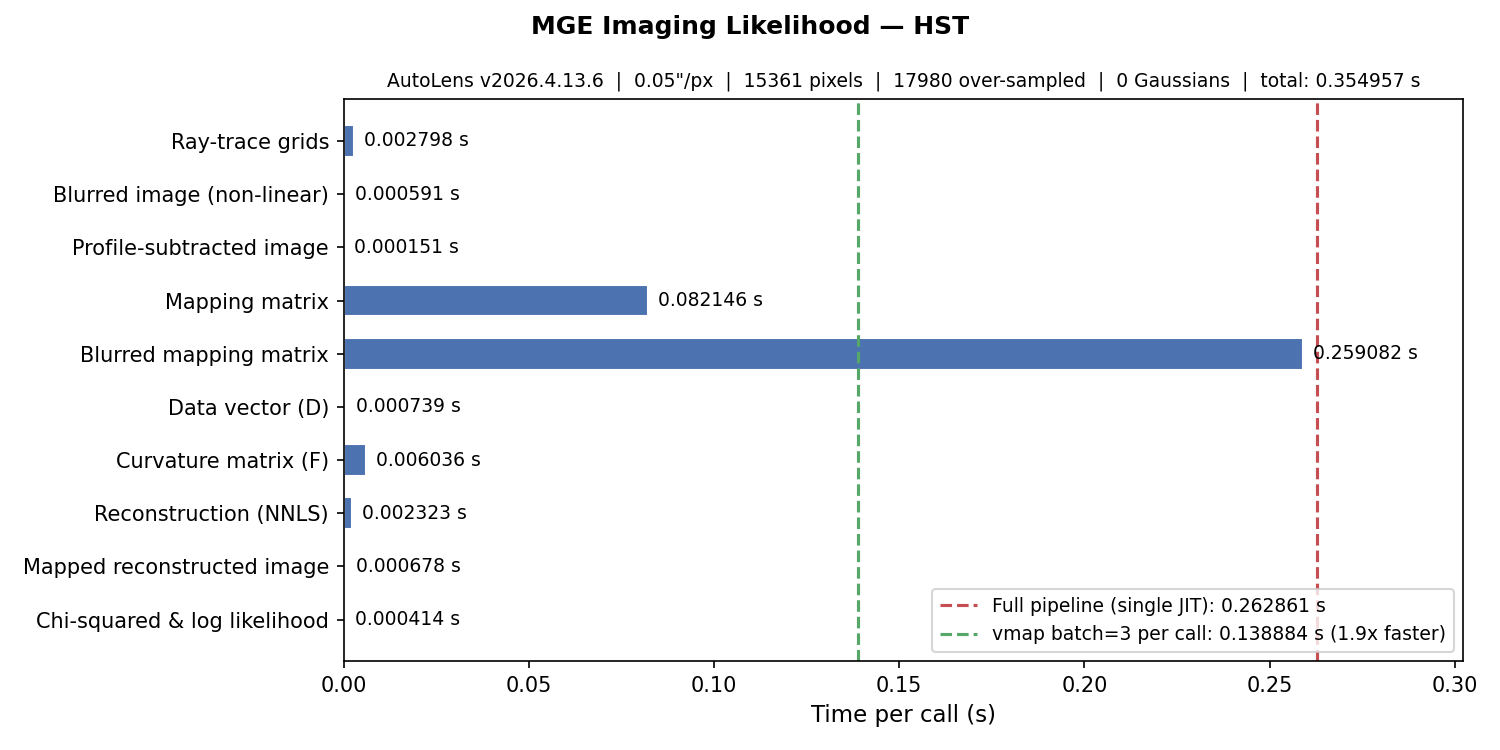
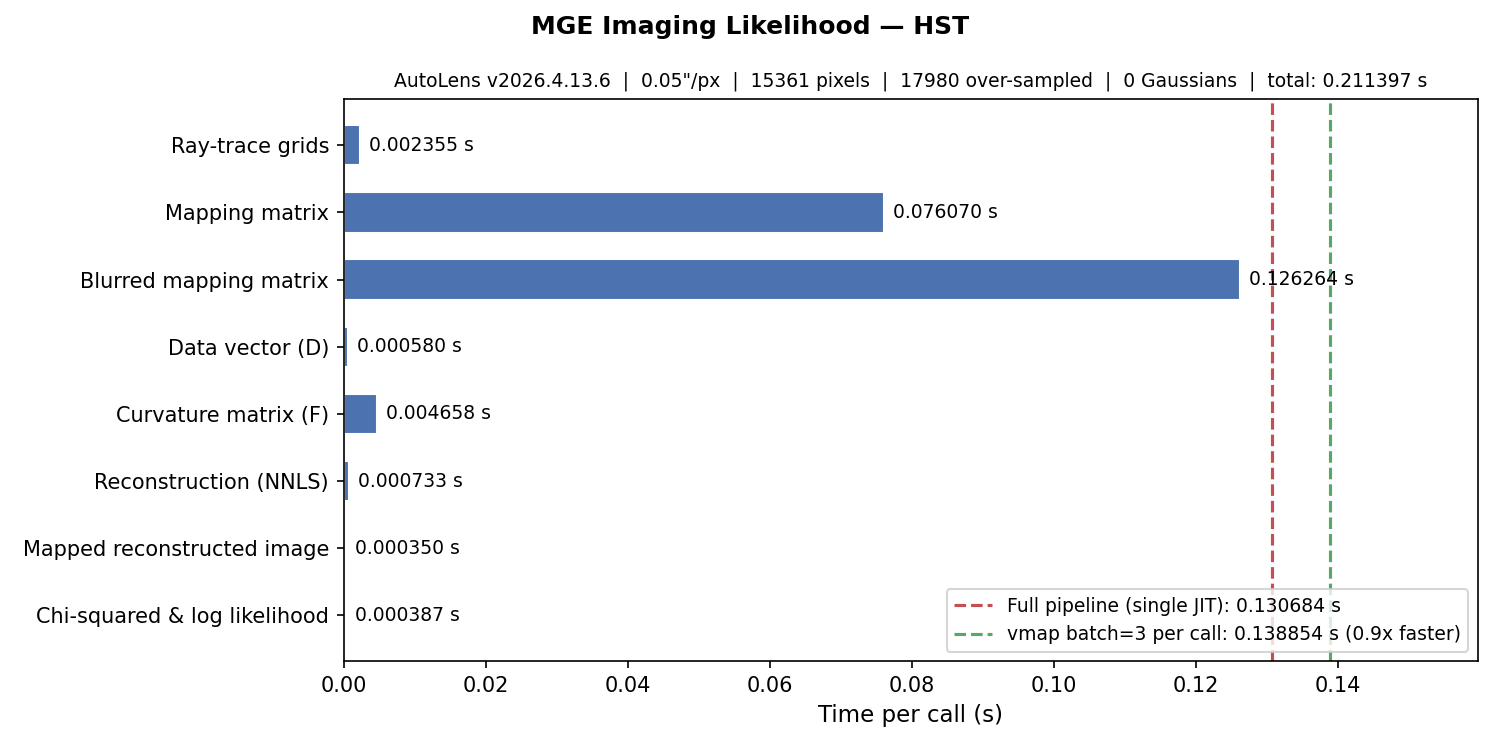
feat: migrate imaging/mge.py JAX profiling to pytree inputs
Replaces the flat 1D parameter vector passed into jit/vmap with a
ModelInstance pytree built via autofit.jax.register_model(model). The
full-pipeline closure now takes the pytree directly and runs
analysis.log_likelihood_function(instance=params_tree) under jit+vmap.

Fitness.call and model.instance_from_vector are unchanged — the
production path is untouched; this is a workspace-side demonstration of
the new opt-in pytree API landing in PyAutoConf #93 and PyAutoFit #1220.

Regenerates the corresponding results summary.

diff --git a/jax_profiling/imaging/mge.py b/jax_profiling/imaging/mge.py
@@ -28,6 +28,25 @@ separate pieces, so per-step timings are approximate. They are still useful
 for identifying which step dominates.
 
 All JAX timings use `block_until_ready()` to force synchronous measurement.
+
+Pytree-native parameter inputs (recommended pattern)
+----------------------------------------------------
+
+This script uses ``af.ModelInstance`` as the JIT input via PyAutoFit's
+opt-in pytree registration (``autofit.jax.register_model(model)``). The
+JIT'd closures consume the instance directly, so:
+
+* ``model.instance_from_vector`` is no longer called inside the JIT trace —
+  parameter unpacking happens once at registration time and JAX walks the
+  pytree on every call.
+* Parameter identity is preserved through ``jax.jit`` and ``jax.vmap``;
+  XLA cache keys reflect the structured pytree, not a flat vector shape.
+* ``vmap`` batching is ``jax.tree_util.tree_map`` over the instance leaves
+  — callers no longer have to stack a ``(batch, N)`` array.
+
+New profiling scripts should follow this pattern. The flat-vector path in
+``Fitness.call`` / ``model.instance_from_vector(..., xp=jnp)`` remains the
+production likelihood entry point and is intentionally untouched here.
 """
 
 import numpy as np
@@ -42,6 +61,7 @@ from contextlib import contextmanager
 import autofit as af
 import autolens as al
 import autoarray as aa
+from autofit.jax import register_model as _register_model_pytrees
 
 # ---------------------------------------------------------------------------
 # Instrument configuration
@@ -220,6 +240,18 @@ with timer.section("instance_from_vector"):
     param_vector = model.physical_values_from_prior_medians
     instance = model.instance_from_vector(vector=param_vector)
 
+# Register every concrete `model.cls` (Galaxy, profile classes, ModelInstance,
+# Collection, …) with `jax.tree_util` so the instance can cross JIT/vmap
+# boundaries directly. This must happen AFTER the model is built, because
+# registration walks the model's class graph.
+with timer.section("register_pytrees"):
+    _register_model_pytrees(model)
+
+# JIT input: the instance itself, with all parameter leaves promoted to JAX
+# arrays. We keep `instance` (the eager NumPy version) around for any
+# non-JIT setup that needs to read parameter values directly.
+params_tree = jax.tree_util.tree_map(jnp.asarray, instance)
+
 tracer = al.Tracer(galaxies=list(instance.galaxies))
 
 print(f"  Tracer planes: {tracer.total_planes}")
@@ -301,8 +333,6 @@ likelihood_steps.append(("Ray-trace grids", timer.records[-1][1] / 10))
 
 print(f"  traced_grids shape: {traced_grids_raw.shape}")
 
-jnp_params = jnp.array(param_vector)
-
 # ---------------------------------------------------------------------------
 # Step 2: Build linear objects and mapping matrix
 # ---------------------------------------------------------------------------
@@ -333,10 +363,13 @@ with timer.section("mapping_matrix"):
 
 print(f"  mapping_matrix shape: {mapping_matrix.shape}")
 
-def mapping_matrix_from_params(params):
-    """Reconstruct tracer from params, compute mapping matrix — fully JIT-traceable."""
-    inst = model.instance_from_vector(vector=params, xp=jnp)
-    t = al.Tracer(galaxies=list(inst.galaxies))
+def mapping_matrix_from_params(params_tree):
+    """Compute mapping matrix from a pytree-shaped ``ModelInstance``.
+
+    No flat-vector unpacking inside the trace: ``params_tree`` is the
+    structured instance directly (registered as a JAX pytree above).
+    """
+    t = al.Tracer(galaxies=list(params_tree.galaxies))
     tti = al.TracerToInversion(
         dataset=aa.DatasetInterface(
             data=fit.profile_subtracted_image,
@@ -353,7 +386,7 @@ def mapping_matrix_from_params(params):
     matrices = [f.mapping_matrix for f in funcs]
     return jnp.hstack(matrices) if len(matrices) > 1 else matrices[0]
 
-_, mm_jit = jit_profile(mapping_matrix_from_params, "mapping_matrix_jit", jnp_params)
+_, mm_jit = jit_profile(mapping_matrix_from_params, "mapping_matrix_jit", params_tree)
 likelihood_steps.append(("Mapping matrix", timer.records[-1][1] / 10))
 
 print(f"  mapping_matrix (JIT) shape: {mm_jit.shape}")
@@ -370,10 +403,9 @@ with timer.section("blurred_mapping_matrix"):
 
 print(f"  blurred_mapping_matrix shape: {blurred_mapping_matrix.shape}")
 
-def blurred_mm_from_params(params):
-    """Reconstruct tracer from params, compute blurred mapping matrix — fully JIT-traceable."""
-    inst = model.instance_from_vector(vector=params, xp=jnp)
-    t = al.Tracer(galaxies=list(inst.galaxies))
+def blurred_mm_from_params(params_tree):
+    """Compute blurred mapping matrix from a pytree-shaped ``ModelInstance``."""
+    t = al.Tracer(galaxies=list(params_tree.galaxies))
     tti = al.TracerToInversion(
         dataset=aa.DatasetInterface(
             data=fit.profile_subtracted_image,
@@ -390,7 +422,7 @@ def blurred_mm_from_params(params):
     matrices = [f.operated_mapping_matrix_override for f in funcs]
     return jnp.hstack(matrices) if len(matrices) > 1 else matrices[0]
 
-_, bmm_jit = jit_profile(blurred_mm_from_params, "blurred_mm_jit", jnp_params)
+_, bmm_jit = jit_profile(blurred_mm_from_params, "blurred_mm_jit", params_tree)
 likelihood_steps.append(("Blurred mapping matrix", timer.records[-1][1] / 10))
 
 print(f"  blurred_mapping_matrix (JIT) shape: {bmm_jit.shape}")
@@ -547,20 +579,23 @@ print("\n" + "=" * 70)
 print("FULL-PIPELINE JIT (for comparison)")
 print("=" * 70)
 
-from autofit.non_linear.fitness import Fitness
+# Build the analysis with ``use_jax=True`` so its ``log_likelihood_function``
+# threads ``xp=jnp`` through every internal call (border relocation, profile
+# evaluation, inversion, etc.). This is the same wiring that ``Fitness.call``
+# uses in production — we just feed it our pytree-native instance directly
+# instead of going through ``model.instance_from_vector(parameters, xp=jnp)``.
+analysis = al.AnalysisImaging(dataset=dataset, use_jax=True)
 
-analysis = al.AnalysisImaging(dataset=dataset)
+def full_pipeline_from_params(params_tree):
+    """Full likelihood from a pytree-shaped ``ModelInstance``.
 
-fitness = Fitness(
-    model=model,
-    analysis=analysis,
-    fom_is_log_likelihood=True,
-    resample_figure_of_merit=-1.0e99,
-)
+    No flat-vector unpacking inside the trace — the instance crosses the JIT
+    boundary directly, with constants (redshifts, etc.) kept static via the
+    ``aux_data`` partition set up by ``autofit.jax.register_model``.
+    """
+    return analysis.log_likelihood_function(instance=params_tree)
 
-jnp_params = jnp.array(model.physical_values_from_prior_medians)
-
-_, full_result = jit_profile(fitness.call, "full_pipeline", jnp_params)
+_, full_result = jit_profile(full_pipeline_from_params, "full_pipeline", params_tree)
 full_pipeline_per_call = timer.records[-1][1] / 10
 
 print(f"  full log_likelihood = {full_result}")
@@ -572,16 +607,25 @@ print(f"  full log_likelihood = {full_result}")
 print("\n--- vmap batched evaluation ---")
 
 batch_size = 3
-parameters = jnp.tile(jnp_params, (batch_size, 1))
+
+# Build the batched pytree: every leaf gets a fresh leading batch axis. No
+# flat-vector reshaping required — JAX walks the pytree via the registration
+# we added in PART A.
+parameters = jax.tree_util.tree_map(
+    lambda leaf: jnp.broadcast_to(leaf, (batch_size, *leaf.shape)),
+    params_tree,
+)
+
+vmapped_full = jax.jit(jax.vmap(full_pipeline_from_params))
 
 with timer.section("vmap_first_call"):
-    result_vmap = fitness._vmap(parameters)
+    result_vmap = vmapped_full(parameters)
     block(result_vmap)
 
 n_vmap_repeats = 10
 with timer.section(f"vmap_steady_x{n_vmap_repeats}"):
     for _ in range(n_vmap_repeats):
-        result_vmap = fitness._vmap(parameters)
+        result_vmap = vmapped_full(parameters)
         block(result_vmap)
 
 vmap_batch_time = timer.records[-1][1] / n_vmap_repeats
@@ -608,8 +652,7 @@ print("  Correctness check PASSED")
 
 print("\n--- Static memory analysis ---")
 
-batched_call = jax.jit(jax.vmap(fitness.call))
-lowered_batched = batched_call.lower(parameters)
+lowered_batched = vmapped_full.lower(parameters)
 compiled_batched = lowered_batched.compile()
 
 memory_analysis = compiled_batched.memory_analysis()